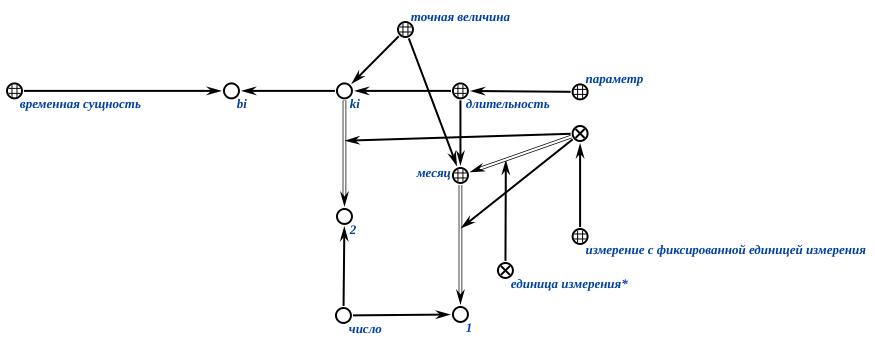
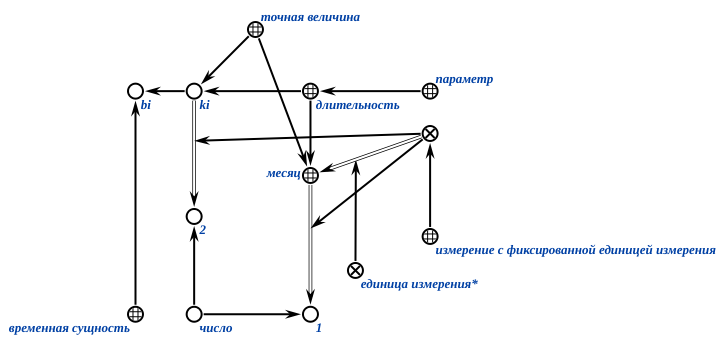
SD of temp entities images fixed

Changed region(s): [[0.0, 0.0291, 1.0, 0.9884], [0.3034, 0.0581, 0.3641, 0.1744]]

diff --git a/Contents/chapter2/sd_ostis_sys_models/sd_kb/sd_temp_entities.tex b/Contents/chapter2/sd_ostis_sys_models/sd_kb/sd_temp_entities.tex
@@ -287,31 +287,7 @@
 \scnfilescg{figures/sd_temp_entities/duration.png}}
 \scncomment{В данном примере \textbf{\textit{ki}} обозначает класс сущностей, существовавших в течение 2 месяцев. Конкретный пример такой сущности – \textbf{\textit{bi}}.}
 
-\scnheader{тысячелетие}
-
-\scnheader{век}
-
-\scnheader{год}
-
-\scnheader{месяц}
-
-\scnheader{сутки}
-
-\scnheader{час}
-
-\scnheader{минута}
-
-\scnheader{секунда}
-
-\scnheader{номер тысячелетия\scnrolesign}
-\scnheader{номер века\scnrolesign}
-\scnheader{номер года\scnrolesign}
-\scnheader{номер месяца в году\scnrolesign}
-\scnheader{номер суток в месяце\scnrolesign}
-\scnheader{номер часа в дне\scnrolesign}
-\scnheader{номер минуты в часе\scnrolesign}
-\scnheader{номер секунды в минуте\scnrolesign}
-
+\bigskip
 \scnendstruct \scnendcurrentsectioncomment
 
 \end{SCn}
